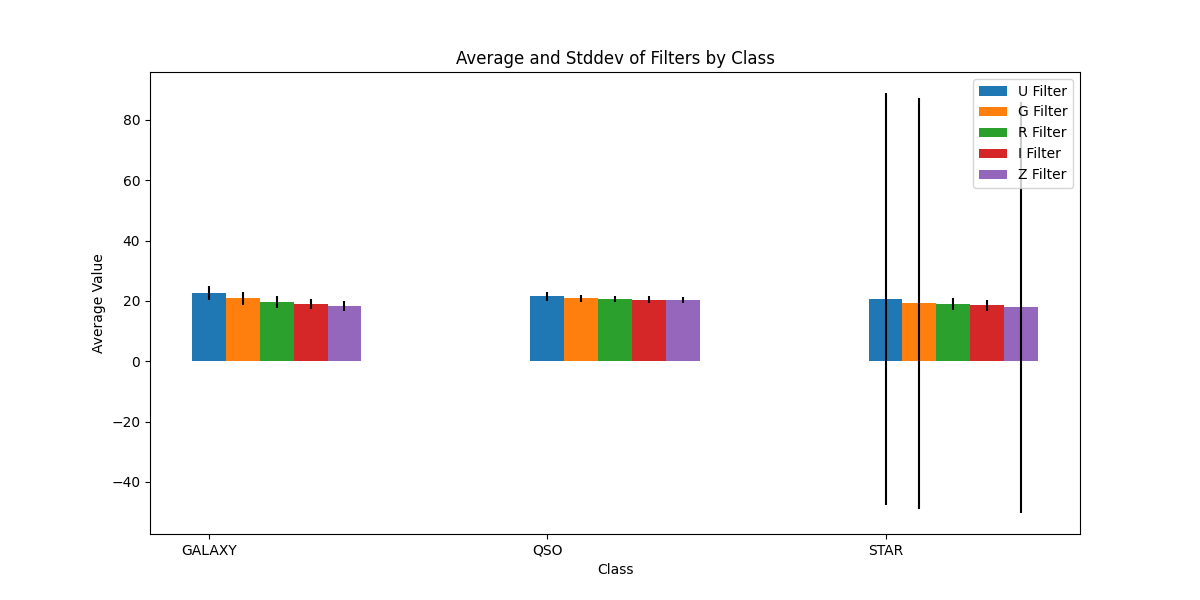
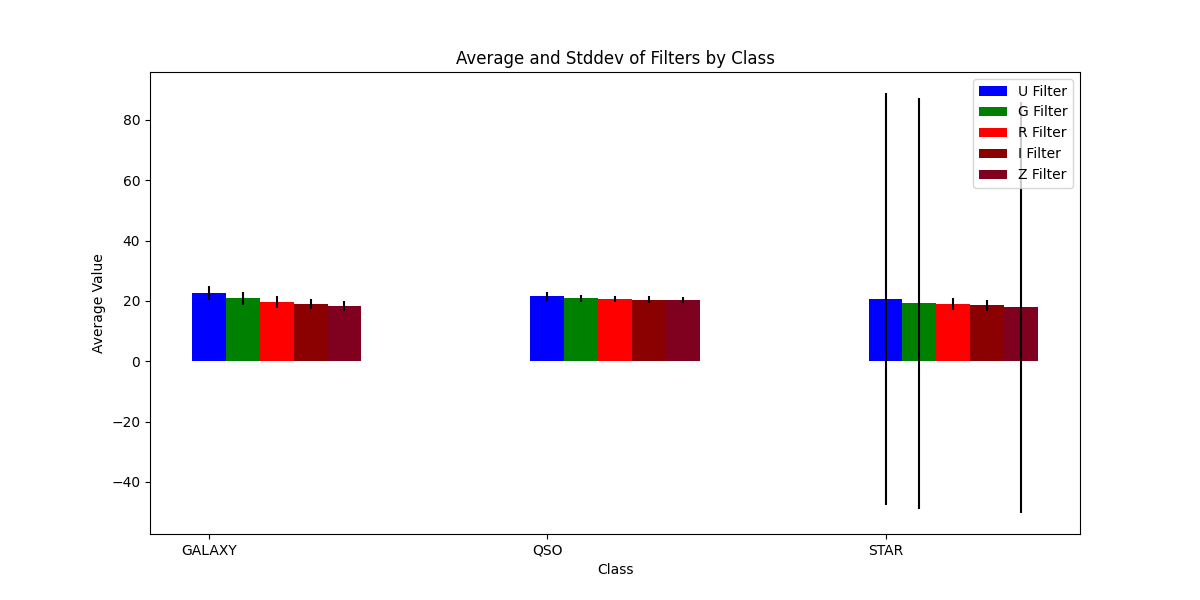
fixed q1 plot colors

diff --git a/query.py b/query.py
@@ -29,11 +29,12 @@ def plot_avg_stddev_by_class(result):
     averages = { 'U': [row[1] for row in result], 'G': [row[3] for row in result], 'R': [row[5] for row in result], 'I': [row[7] for row in result], 'Z': [row[9] for row in result] }
     stddevs = { 'U': [row[2] for row in result], 'G': [row[4] for row in result], 'R': [row[6] for row in result], 'I': [row[8] for row in result], 'Z': [row[10] for row in result] }
     
-    # Creating the plot
+    filter_colors = {'U': 'blue', 'G': 'green', 'R': 'red', 'I': 'darkred', 'Z': '#800020'}
+
     plt.figure(figsize=(12, 6))
     for i, (filter_name, avg_values) in enumerate(averages.items()):
         x_positions = [x + i*0.1 for x in range(len(classes))]  # Offset x positions for each filter
-        plt.bar(x_positions, avg_values, width=0.1, yerr=stddevs[filter_name], label=f'{filter_name} Filter')
+        plt.bar(x_positions, avg_values, width=0.1, yerr=stddevs[filter_name], label=f'{filter_name} Filter', color=filter_colors[filter_name])
     
     plt.xticks(range(len(classes)), classes)
     plt.xlabel('Class')
